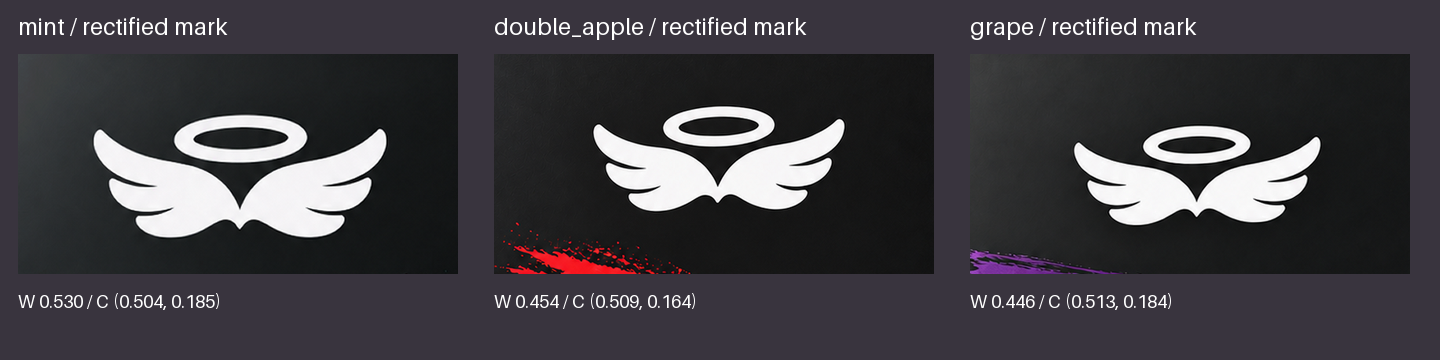
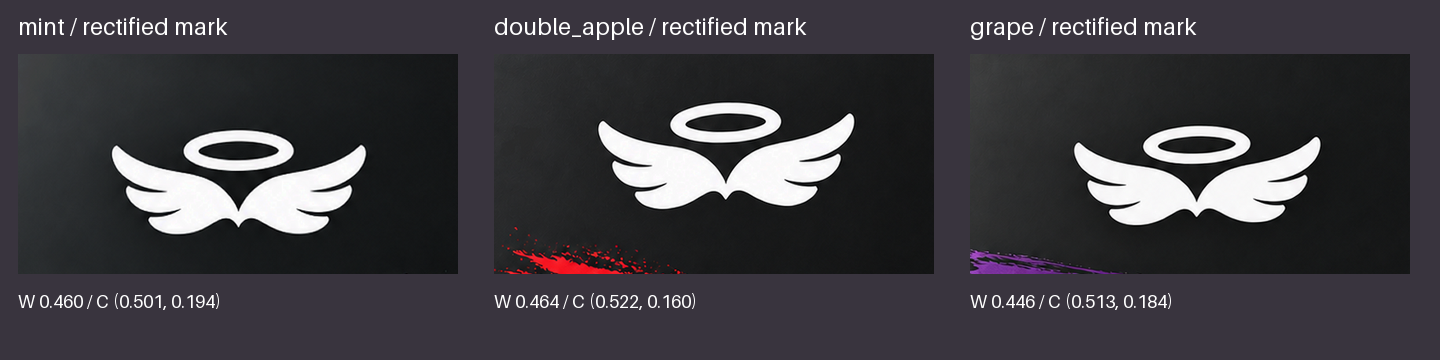
assets: save aligned angel representatives and final position-edit record (#586)

diff --git a/asset_sources/shop-art-issue586/prototype-retail-angel-mark-v3/index.html b/asset_sources/shop-art-issue586/prototype-retail-angel-mark-v3/index.html
@@ -2,7 +2,7 @@
 <title>白い天使マーク代表比較・採用保留</title><style>body{font:16px system-ui;background:#eeeae3;color:#282432;margin:24px}table{width:100%;max-width:1100px}td,th{text-align:center;padding:10px}img{width:360px;max-width:100%;background:#39343e}h1{font-size:24px}</style>
 <h1>白い天使マーク代表比較（本編未接続・採用保留）</h1><p>既存ブランド「アルファーヘブン」は維持。絵のAF文字だけを独立した白い翼＋輪へ変更。旧21点・v2箱・HMDは全て保持し、HMDは今回生成していません。</p>
 <table><tr><th>商品</th><th>v2 AF版（保持）</th><th>v3 白い天使版（未採用）</th></tr>
-<tr><th>アルファーヘブン ミント</th><td><img alt="v2 保持" src="../prototype-retail-cartons-no-grass-v2/originals/mint-retail-prototype.png"></td><td><img alt="v3 未採用" src="candidates/mint-angel-first.png"></td></tr>
-<tr><th>アルファーヘブン ダブルアップル</th><td><img alt="v2 保持" src="../prototype-retail-cartons-no-grass-v2/originals/double_apple-retail-prototype.png"></td><td><img alt="v3 未採用" src="candidates/double_apple-angel-size-correction.png"></td></tr>
-<tr><th>アルファーヘブン グレープ</th><td><img alt="v2 保持" src="../prototype-retail-cartons-no-grass-v2/originals/grape-retail-prototype.png"></td><td><img alt="v3 未採用" src="candidates/grape-angel-size-correction.png"></td></tr>
+<tr><th>アルファーヘブン ミント</th><td><img alt="v2 保持" src="../prototype-retail-cartons-no-grass-v2/originals/mint-retail-prototype.png"></td><td><img alt="v3 未採用" src="originals/mint-angel-aligned.png"></td></tr>
+<tr><th>アルファーヘブン ダブルアップル</th><td><img alt="v2 保持" src="../prototype-retail-cartons-no-grass-v2/originals/double_apple-retail-prototype.png"></td><td><img alt="v3 未採用" src="originals/double_apple-angel-aligned.png"></td></tr>
+<tr><th>アルファーヘブン グレープ</th><td><img alt="v2 保持" src="../prototype-retail-cartons-no-grass-v2/originals/grape-retail-prototype.png"></td><td><img alt="v3 未採用" src="originals/grape-angel-prototype.png"></td></tr>
 </table><p><a href="originals/canonical-white-angel-mark.png">共通マスター</a> / <a href="qa/canonical-on-dark-preview.png">マスター暗色背景プレビュー</a> / <a href="mark-measurements.json">位置・大きさ計測</a> / <a href="prompts.json">実プロンプト</a></p></html>
